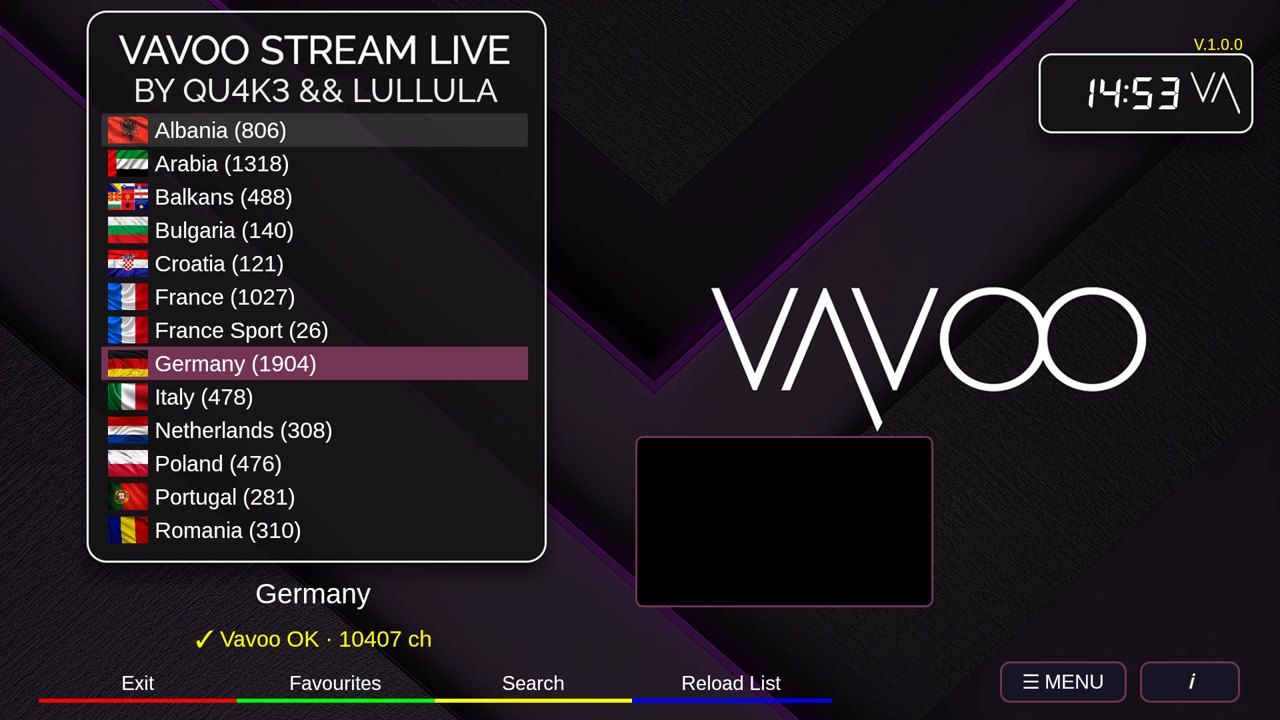
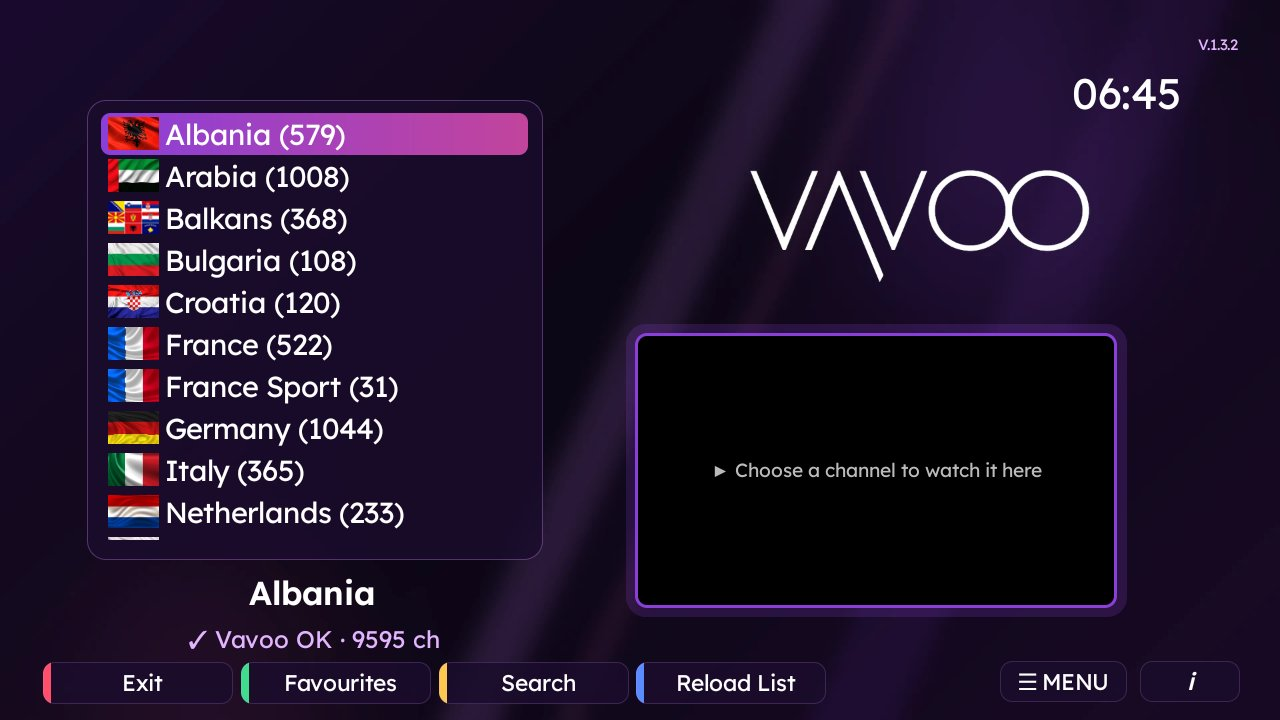
README for 1.3.2: new screenshots, what's new, all features

diff --git a/README.md b/README.md
@@ -1,48 +1,101 @@
-# Vavoo Stream Live – Android
+# Vavoo Stream – Android
 
-**Android app by Qu4k3** (credited in the app as *by Qu4k3 && Lullula*).
+**Android app by Qu4k3** · ![version](https://img.shields.io/badge/version-1.3.2-8b3fd9) ![Android](https://img.shields.io/badge/Android-5.0%2B-3fdc8e) ![TV](https://img.shields.io/badge/Android%20TV-ready-5a8cff)
 
-Watch Vavoo / Kool.to live TV on your Android phone, tablet or Android TV box, with the
-same look as the Enigma2 plugin *Vavoo Stream Live* it is based on.
+Live TV from Vavoo / Kool.to on your Android **phone, tablet and Android TV box** – a
+complete TV app: preview window, programme guide, recordings, pause live TV, multi-view,
+casting to your TV, parental control and four themes. Nothing to set up: open it and watch.
 
 ## Download
 
-**[⬇ Download the latest VavooStream.apk](https://github.com/OwnerPlugins/vavoo_android-releases/releases/latest)**
+**[⬇ Download the latest VavooStream.apk](https://github.com/pQu4k3r/vavoo_android-releases/releases/latest)**
 
 1. Open the latest release and download `VavooStream.apk`.
 2. Open the file on your device and allow "install unknown apps" for your browser or file manager.
 3. Android 5.0 or newer. Works with touch and with TV remotes (D-pad and colour keys).
 
-The app checks this page for new versions and offers the update itself.
+The app checks for new versions and offers the update itself (Settings → Check for updates).
 You can also follow releases automatically with [Obtainium](https://github.com/ImranR98/Obtainium):
-add `https://github.com/OwnerPlugins/vavoo_android-releases`.
+add `https://github.com/pQu4k3r/vavoo_android-releases`.
 
 ## Screenshots
 
-| Countries | Channels with live preview and EPG |
+Real screenshots of version 1.3.2 (Android emulator, live channels from the Vavoo catalog).
+
+| Main menu | Channels with the preview window (Halo theme) |
 | --- | --- |
-| ![Countries](screen/main.jpg) | ![Channels](screen/channels.jpg) |
-| **Player infobar** | **Player channel list** |
-| ![Player](screen/player.jpg) | ![Player channel list](screen/player-list.jpg) |
-| **Search** | **Settings** |
-| ![Search](screen/search.jpg) | ![Settings](screen/settings.jpg) |
+| ![Main menu](screen/main.jpg) | ![Channels](screen/channels.jpg) |
+| **Numbered channel lists** | **Channel list and mini guide over the stream** |
+| ![Channel numbers](screen/channel-numbers.jpg) | ![Mini guide](screen/mini-guide.jpg) |
+| **Player options** | **Programme guide** |
+| ![Options](screen/options.jpg) | ![Guide](screen/guide.jpg) |
+| **Multi-view: 4 channels at once** | **Pause live TV, stream info** |
+| ![Multi-view](screen/multiview.jpg) | ![Pause live TV](screen/pause-live.jpg) |
+| **Recordings & timers** | **Parental control** |
+| ![Recordings](screen/recordings.jpg) | ![Parental control](screen/parental.jpg) |
+| **Orbit theme** | **Settings** |
+| ![Orbit theme](screen/theme-orbit.jpg) | ![Settings](screen/settings.jpg) |
 
-Portrait mode:
+## What's new in 1.3
 
-<p>
-  <img src="screen/portrait-main.jpg" alt="Countries in portrait" width="300">
-  &nbsp;
-  <img src="screen/portrait-channels.jpg" alt="Channels in portrait" width="300">
-</p>
+- **Programme guide for many more channels**: fresh daily guide data (several days ahead),
+  smarter channel matching, a guide for the Balkans and Arabia too. Italy, the UK, Turkey,
+  Portugal, Romania… went from almost no guide to between a quarter and two thirds of their channels.
+- **Search finds what's on**: type a team or a show and get the channels showing it now.
+- **Receiver-style remote**: OK shows the infobar, OK again the channel list; BACK closes the
+  infobar first. In the player options LEFT / RIGHT change a value, OK lists them all.
+- **Infobar**: progress of the programme on now and its minutes left; typing a number shows the
+  channel it goes to; **0** goes back to the previous channel.
+- **Pause live TV** shows *Paused* / *-0:48* on screen; **Record** stops at the programme's end.
+- Audio track list with the chosen language kept on the next channels, sleep-timer warning,
+  Chromecast that keeps playing, and many fixes.
 
 ## Features
 
-- Same screens as the Enigma2 plugin: countries with flags, channels, search, settings.
-- Live preview window, EPG now/next, sub-categories, favourites.
-- Full-screen player with infobar, channel list, recall, number keys, aspect ratio,
-  picture-in-picture and Chromecast.
-- Landscape (identical to the plugin) or portrait layout.
-- 16 languages, following the phone's language.
+**Watching**
+- All Vavoo countries with flags (choose which are shown); countries with groups open as folders.
+- **Preview window** in the lists – full screen continues the same stream, no restart.
+- **One row per channel**: its sources (`.b`, `.c`, `.s`) are tried by themselves when one fails.
+- **Favourites** with folders and your own order, **recently watched**, **search** (also by voice).
+- Numbered lists: the number keys go to a channel, in the lists and in the player.
+
+**Programme guide**
+- Now / next everywhere, a full **guide grid**, and a **mini guide** beside the player's list.
+- **Reminders** and **recordings** set from the guide.
+
+**Recordings and pause live TV**
+- **Record** the channel you watch or set a timer in the guide – in the background, screen off.
+- **Pause live TV** up to 2 hours, move back and forth, BACK to return to live.
+
+**Picture and sound**
+- **Dolby / DTS sound on every device** (decoded by the app when the device can't),
+  **audio passthrough** to an AV receiver, **match frame rate** on Android TV.
+- Video quality (automatic, best, or a limit), **data saver** on mobile data, stream info,
+  picture format, pinch to zoom, audio and subtitle tracks, sleep timer.
+
+**Multi-view** – up to 4 channels at once, the highlighted one with sound.
+
+**Android TV and remotes** – colour keys, MENU, INFO / EPG, number keys, CH+/CH-, RECALL,
+media keys; hold OK for a menu on remotes without colour keys. Your favourites in the TV's own
+channel list and guide, "Play next" on the home screen, voice: *"Play Rai 1 on Vavoo Stream"*.
+
+**Phones and tablets** – tap to preview, tap again for full screen; swipe to zap, brightness and
+volume at the edges; landscape, portrait or auto; **picture-in-picture**, **background audio**.
+
+**Cast to a TV** – **DLNA / UPnP smart TVs** (Samsung, LG, Sony, Philips…, Kodi, VLC) and
+**Chromecast**; the phone is the remote and casting goes on with the screen off.
+
+**Family and other players**
+- **Parental control**: a PIN for adult channels, chosen countries and the settings.
+- **Backup / restore** of settings, favourites, recently watched, countries and timers.
+- **Playlist server** for TiviMate, VLC, Kodi (`http://127.0.0.1:4323/playlist.m3u`), with the guide.
+
+**Looks** – four themes (Prism, Halo, Orbit, Classic), large text option, **16 languages**:
+English, Italian, German, French, Spanish, Portuguese, Polish, Turkish, Romanian, Dutch, Russian,
+Greek, Croatian, Albanian, Bulgarian, Arabic.
+
+**Reliable** – vavoo.to ⇄ kool.to switching when one is blocked, optional Secure DNS, the Vavoo
+token kept fresh while you watch or record, automatic reconnects.
 
 ## Problems?
 
@@ -52,5 +105,6 @@ In the app: **Settings → Show Log → Share**, and send the log with a short d
 
 - Android app: **Qu4k3**.
 - Based on the Enigma2 plugin *Vavoo Stream Live* by **Lululla / Belfagor2005**.
+- Guide data: epgshare01.online and the plugin's channel maps.
 - License: [CC BY-NC-SA 4.0](https://creativecommons.org/licenses/by-nc-sa/4.0/) –
   non-commercial, attribution required, share-alike.
